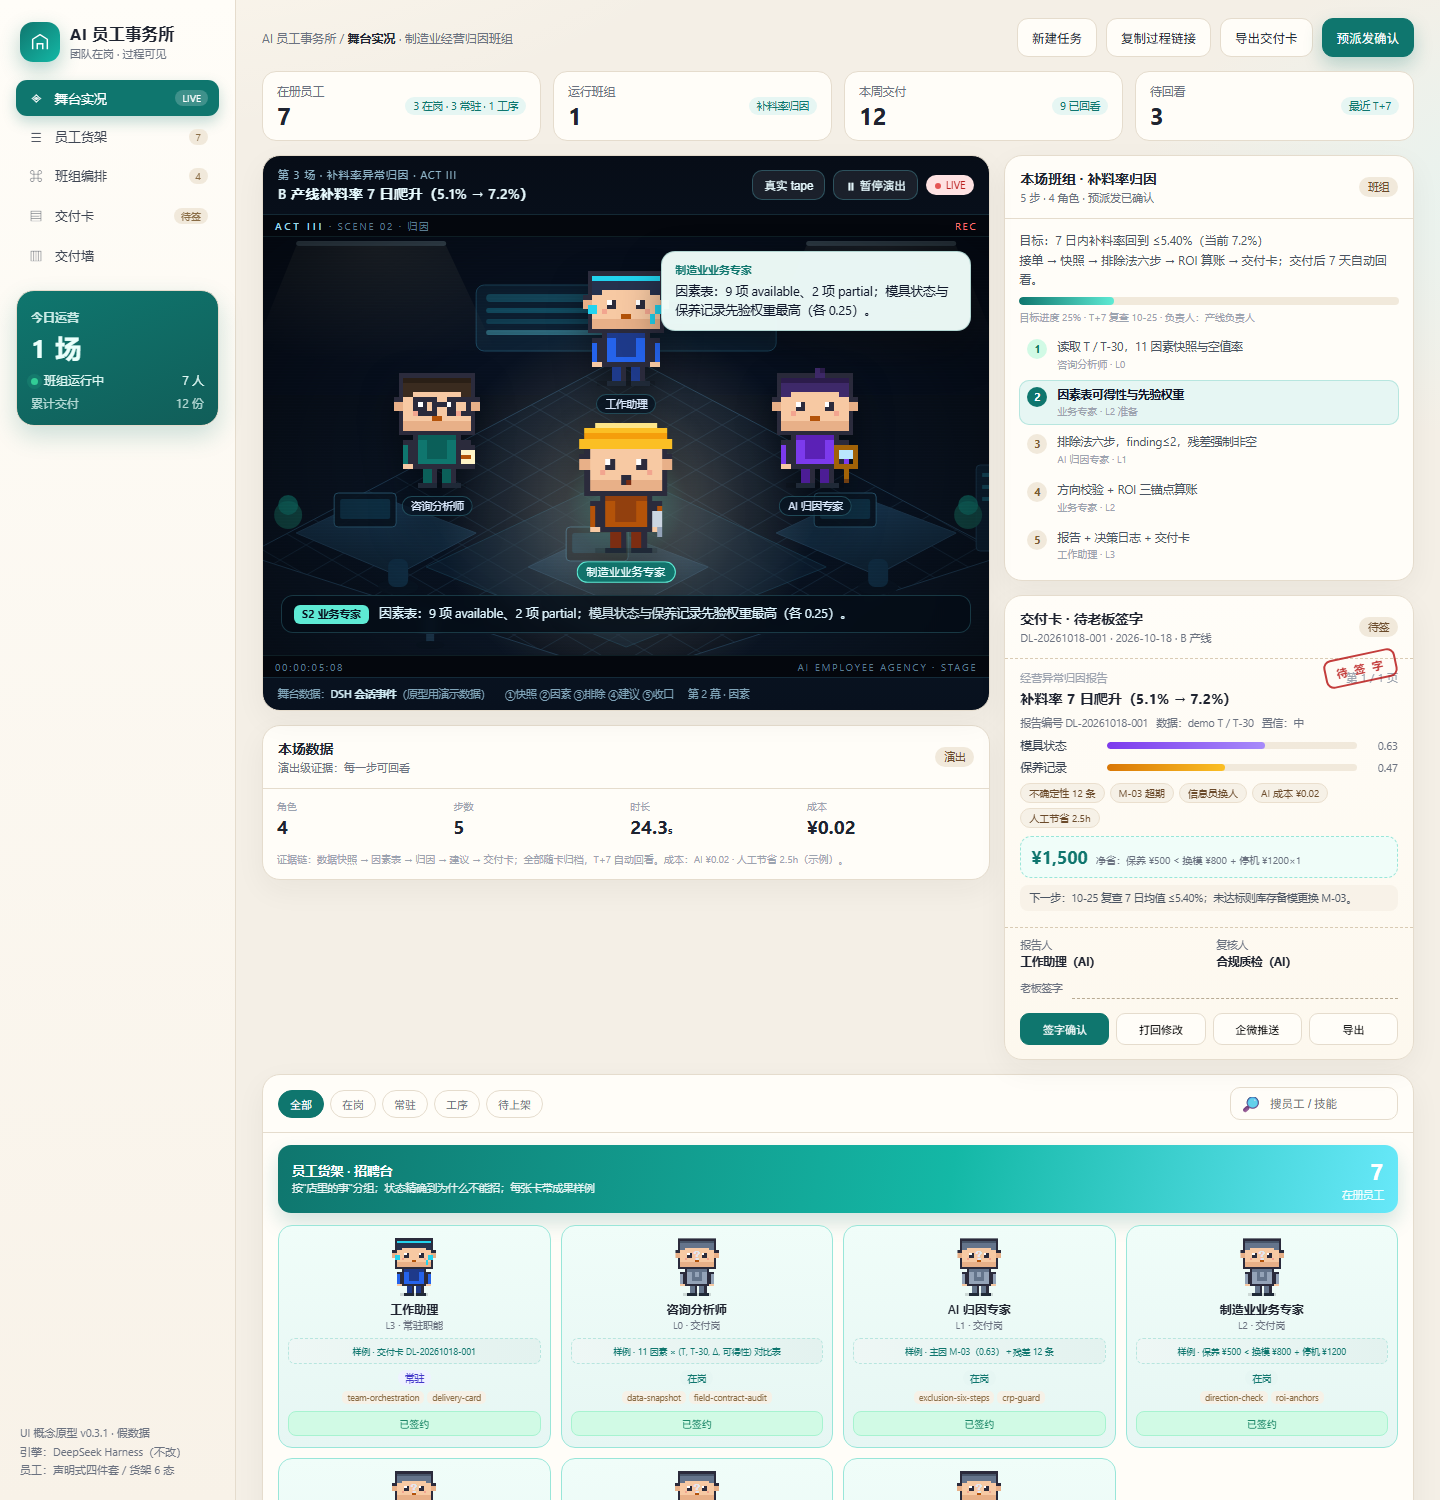
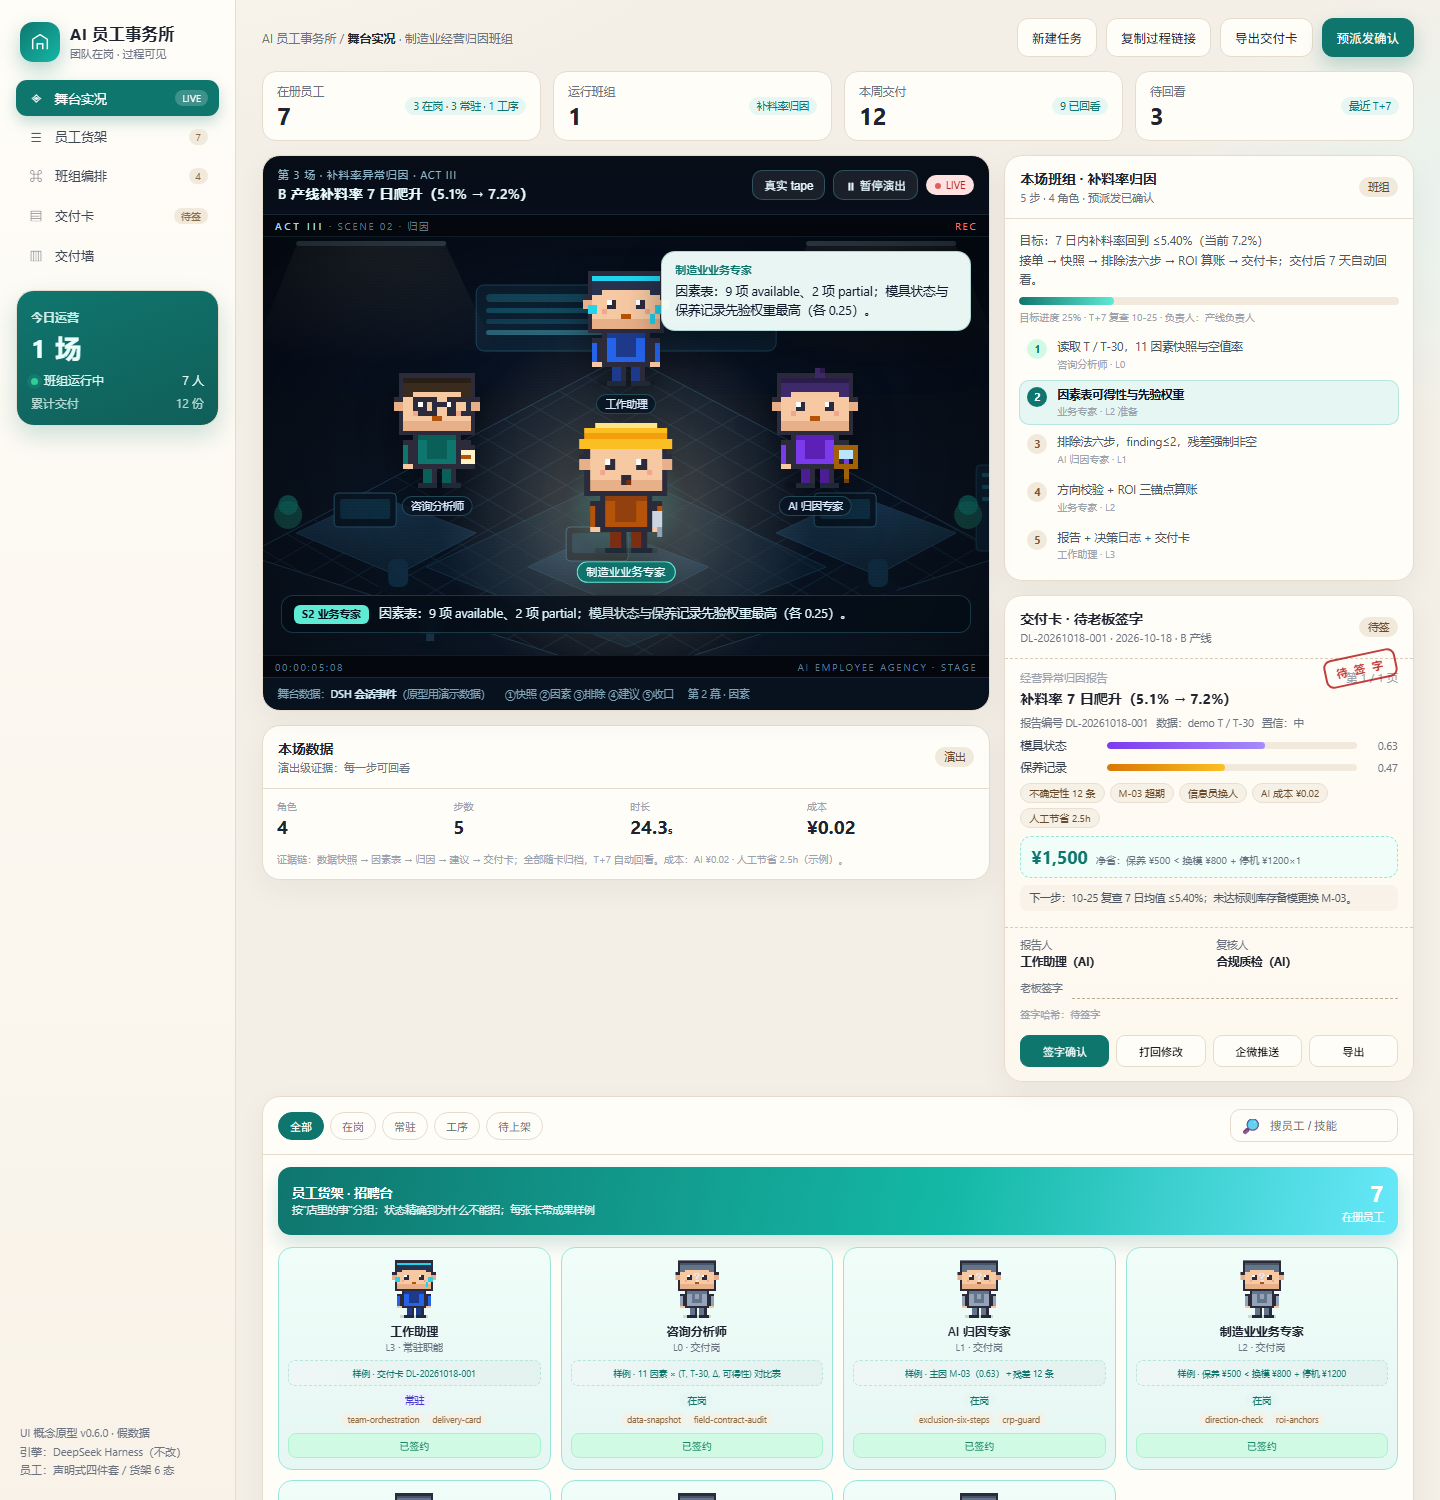
feat(ui): delivery-card content hash on signature

Changed region(s): [[0.1875, 0.6747, 0.9688, 1.0]]

diff --git a/bot-team/ui/index.html b/bot-team/ui/index.html
@@ -393,6 +393,7 @@
             <div class="line">报告人<b>工作助理（AI）</b></div>
             <div class="line">复核人<b>合规质检（AI）</b></div>
             <div class="boss"><span class="line" style="white-space:nowrap">老板签字<b id="bossSigned" style="display:none">已签 · 2026-10-18</b></span><span class="dash" id="dash"></span><span class="ok" id="ok">已签</span></div>
+            <div class="line" id="sigHash" style="grid-column:1/-1;font-size:10px;color:#9ca3af">签字哈希：待签字</div>
           </div>
           <div class="sign-btns">
             <button class="primary" id="signBtn" onclick="signPaper()">签字确认</button>
@@ -759,7 +760,7 @@
 
   /* delivery card sign */
   let signed = false, rejected = false;
-  function signPaper(){
+  async function signPaper(){
     if(signed) return;
     signed = true; rejected = false;
     const s = document.getElementById('stamp');
@@ -767,7 +768,18 @@
     document.getElementById('ok').classList.add('show');
     document.getElementById('bossSigned').style.display = 'block';
     document.getElementById('signBtn').disabled = true;
-    toast('老板已签字：建议进入执行（原型）');
+    const payload = {report:'DL-20261018-001', finding:'模具 M-03（0.63）', roi:'¥1,500', date:'2026-10-18'};
+    let hex = '';
+    try {
+      const buf = await crypto.subtle.digest('SHA-256', new TextEncoder().encode(JSON.stringify(payload)));
+      hex = Array.from(new Uint8Array(buf)).map(b=>b.toString(16).padStart(2,'0')).join('');
+    } catch(e) {
+      let h = 2166136261; const str = JSON.stringify(payload);
+      for (let i=0;i<str.length;i++){ h ^= str.charCodeAt(i); h = Math.imul(h, 16777619); }
+      hex = ('00000000' + (h>>>0).toString(16)).slice(-8).repeat(8);
+    }
+    document.getElementById('sigHash').textContent = '签字哈希 SHA256 ' + hex.slice(0,16) + '…（本地内容哈希；工具：tools/sign_delivery.py）';
+    toast('老板已签字：SHA256 ' + hex.slice(0,8) + '…');
   }
   function rejectPaper(){
     if(signed) return;

diff --git a/bot-team/ui/README.md b/bot-team/ui/README.md
@@ -10,6 +10,10 @@ start D:\项目\bot\bot-team-dsh\ui\index.html
 start "D:\项目\bot\bot-team-dsh\ui\index.html?beat=3"
 ```
 
+## v0.7.1 签字内容哈希（2026-10-18）
+
+- 「签字确认」不再只是改 DOM：浏览器用 `crypto.subtle` 对交付卡内容做 SHA-256，显示前 16 位；与 `tools/sign_delivery.py` 的报告 SHA256 对齐（UI 是示例内容哈希，正式签字以工具输出 signature.json 为准）。
+
 ## v0.6 关系/目标/成本/企微（2026-10-18）
 
 - 班组卡加**目标进度条**（7.2%→5.4%，T+7 复查）；员工详情加**跨任务记忆** chips；交付卡加「企微推送」按钮（原型，实际工具 `tools/wecom_notify.py`）。
